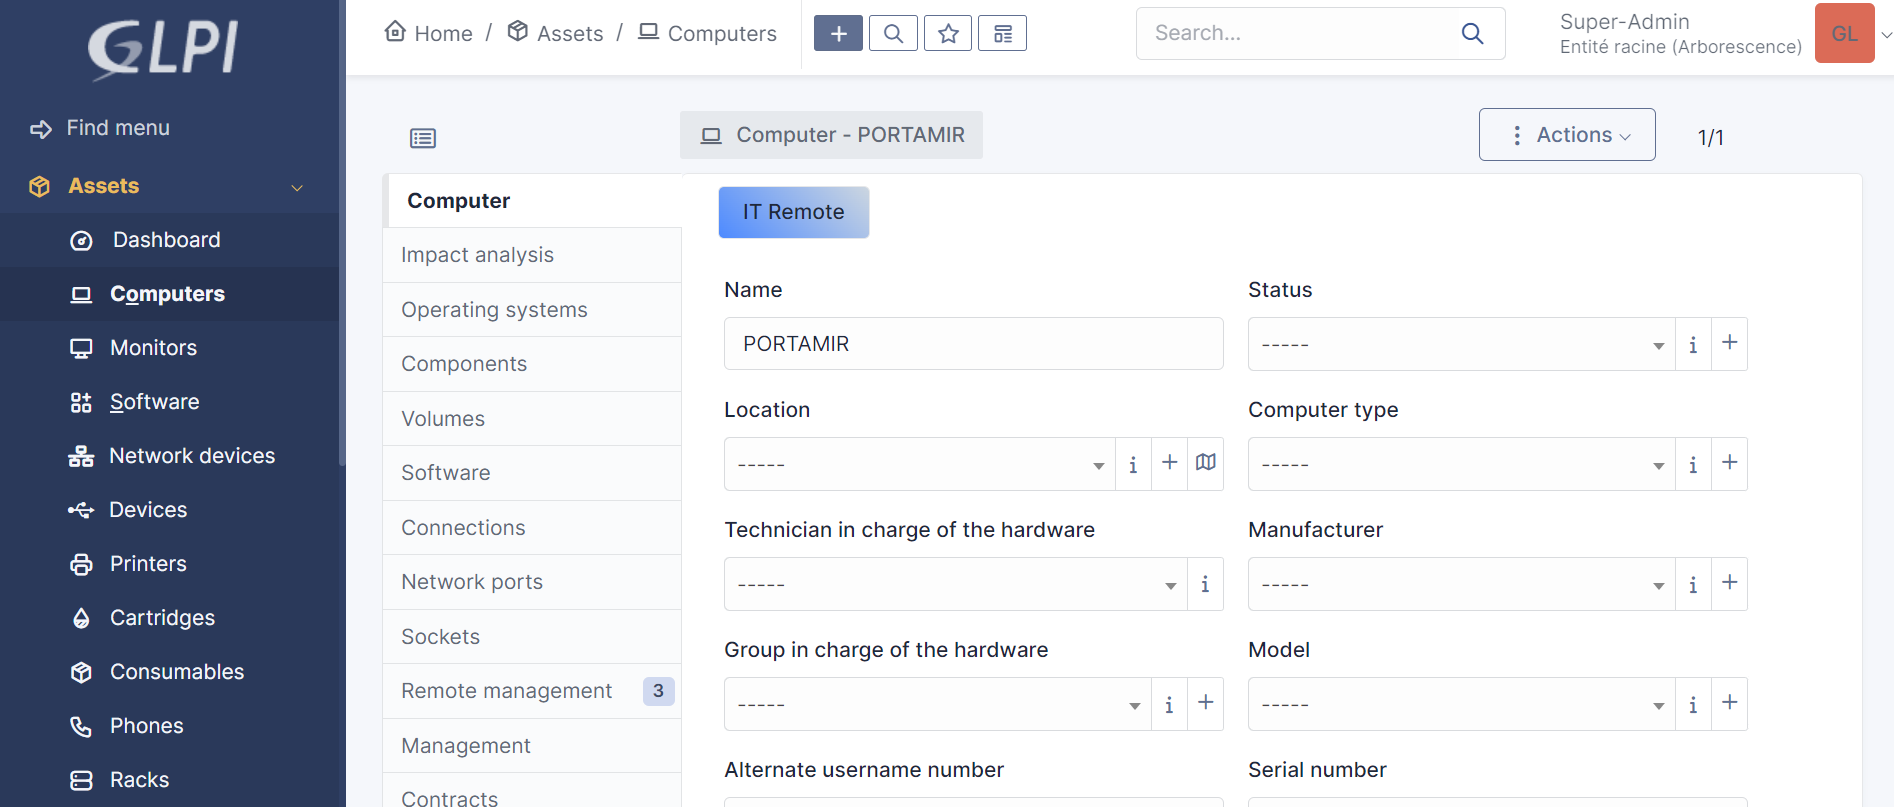
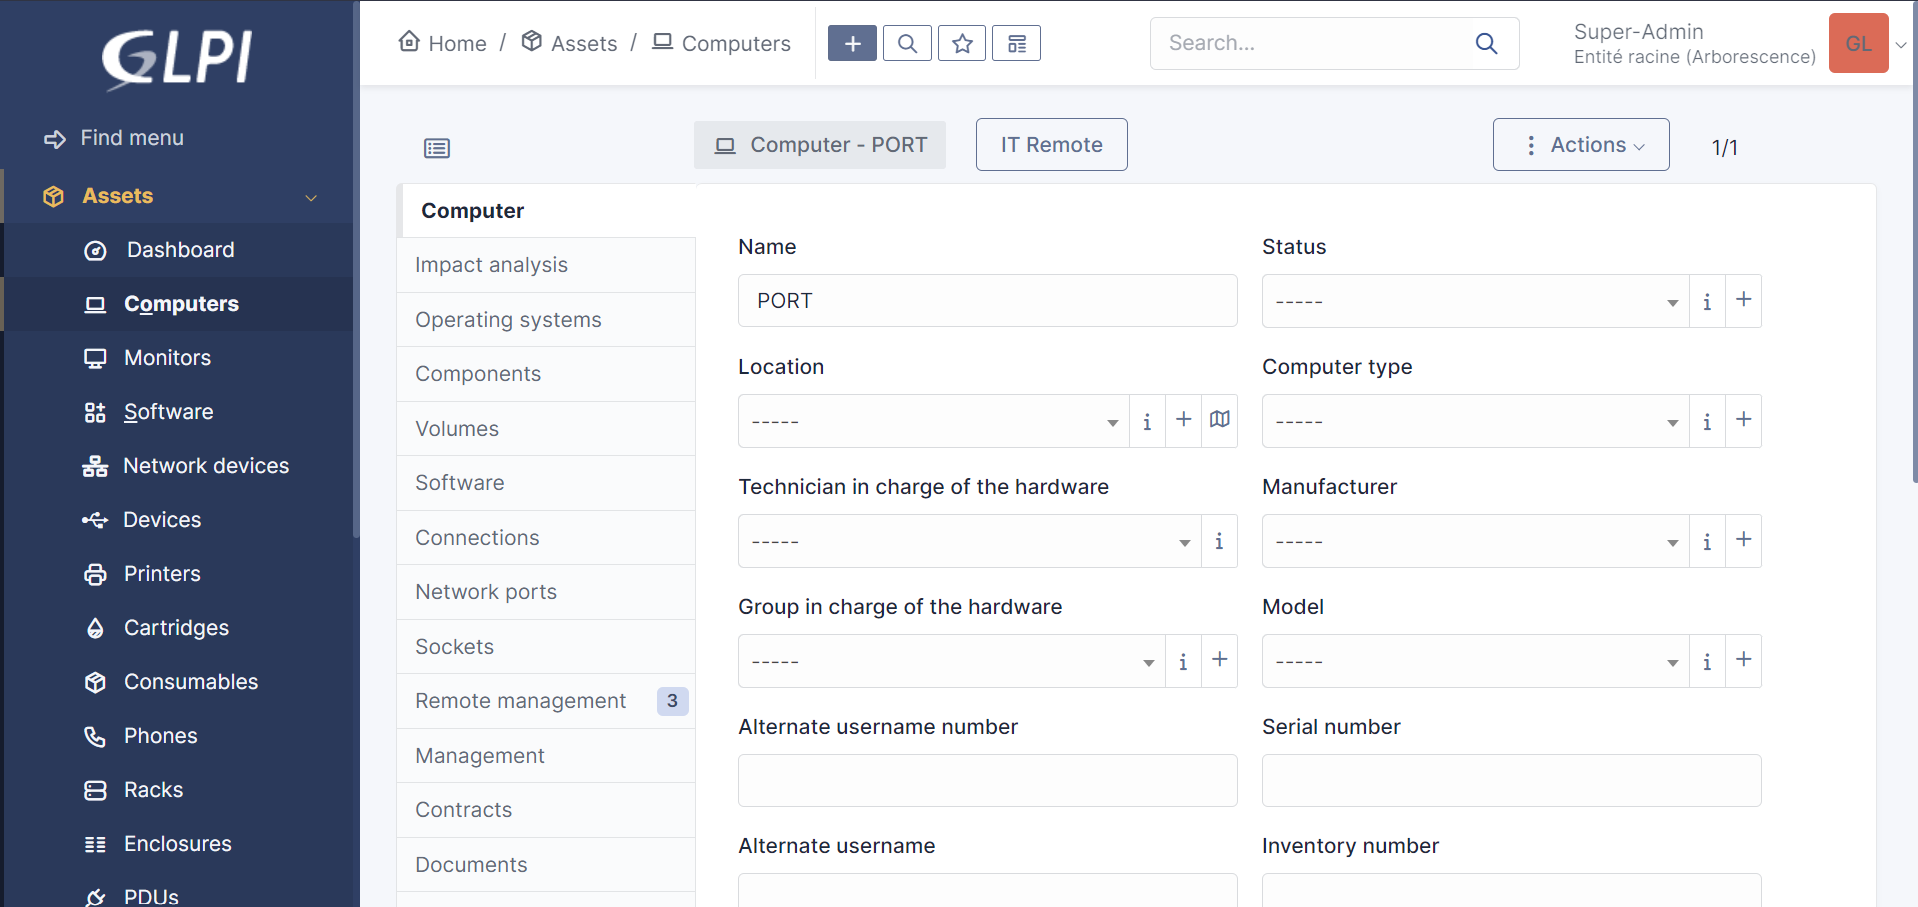
Correction 2.0

diff --git a/js/itremote.js b/js/itremote.js
@@ -1,0 +1,29 @@
+$(document).ready(function() {
+    var $header = $('span.status.rounded-1');
+    var $button;
+
+    function updateButton() {
+        var fullText = $header.text().trim();
+
+        var splitText = fullText.split('-');        
+        var computerName = splitText.length > 1 ? splitText[1].trim() : '';
+
+        var encode = encodeURIComponent(computerName);
+        var buttonHtml = '<a class="btn btn-outline-secondary" style="margin-left: 20px;" href="https://control.itremote.com/Remote/OpenAccess?deviceName=' + encode + '" target="_blank" class="btn btn-primary">IT Remote</a>';
+
+        if ($button) {
+            $button.remove();
+        }
+
+        $button = $(buttonHtml);
+        $('span.status.rounded-1').after($button);
+    }
+
+    var checkTextInterval = setInterval(function() {
+        if ($header.text().trim() !== '') {
+            clearInterval(checkTextInterval);
+            updateButton();
+            $header.on('DOMSubtreeModified', updateButton);
+        }
+    }, 1000);
+});

diff --git a/front/itremote.form.php b/front/itremote.form.php
@@ -1,0 +1,28 @@
+<!-- ============================================================================//
+//==             Plugin pour GLPI - Dévelloppeur: IT Remote - ©2023         ==//
+//==                        https://itremote.com                             ==//
+//============================================================================// -->
+
+<?php
+
+// Required
+include("../../../inc/includes.php");
+Html::class::header('');
+
+?>
+<body style='background: rgba(0, 0, 0, 0.025);'>
+    <h1 style='text-align: start;'>Plugin IT Remote</h1>
+    <p style='text-align: start; color: red'>Our plugin currently has no settings!</p>
+    <div style='text-align: start; font-weight: 300;'>Our website:</div>
+    <p style='text-align: start; font-weight: 500; margin-left: 10px;'><a href='https://control.itremote.com' style='color: #370c52;'>control.itremote.com</a></p>
+    <h3 style='text-align: start; color: #4d8aff'>Who are we ?</h3>
+    <p style='text-align: start; font-weight: 700; margin-left: 10px;'>From any computer, wherever you are, from your web browser!</p>
+    <h5 style='text-align: start; color: #4d8aff'>A SIMPLE AND FLEXIBLE LICENCE</h5>
+    <p style='text-align: start; font-weight: 300; margin-left: 10px;'>1 IT Remote licence gives you access to an unlimited number of computers, wherever you are. You can provide remote assistance from any computer.</p>
+    <h5 style='text-align: start; color: #4d8aff'>HOW TO USE IT</h5>
+    <p style='text-align: start; font-weight: 300; margin-left: 10px;'>1 all-in-one licence: 2 types of access for all your needs</p>
+    <h5 style='text-align: start; color: #4d8aff; margin-left: 10px;'>1 centralised web console</h5>
+    <h3 style='text-align: start; color: #4d8aff'>How does the plugin work?</h3>
+    <p style='text-align: start; font-weight: 300; margin-left: 10px;'>Our plugin consists of a single button, it is in the computer category.</p>
+    <div style='text-align: start;'><img style='border-radius: 15px;' src='../img-itremote-english-button.png'></div>
+</body>

diff --git a/setup.php b/setup.php
@@ -1,23 +1,20 @@
 <!-- ============================================================================//
 //==             Plugin pour GLPI - Dévelloppeur: IT Remote - ©2023         ==//
-//==                        http://itremote.com                             ==//
+//==                        https://itremote.com                             ==//
 //============================================================================// -->
 
 <?php
 
-// Main plugin
+// Required
 function plugin_init_itremote()
 {
     global $PLUGIN_HOOKS;
     $PLUGIN_HOOKS['csrf_compliant']['itremote'] = true;
-
-    $PLUGIN_HOOKS['config_page']['itremote'] = 'front/config.form.php';
-
-    $PLUGIN_HOOKS['pre_item_form']['itremote'] = ['PluginItremoteController', 'button_support'];
-
+    $PLUGIN_HOOKS['config_page']['itremote'] = 'front/itremote.form.php';
+    $PLUGIN_HOOKS['add_javascript']['itremote'] = 'js/itremote.js';
 }
 
-// Obligatoire
+// Required
 function plugin_version_itremote()
 {
     return array(
@@ -30,16 +27,15 @@ function plugin_version_itremote()
     );
 }
 
-// Obligatoire
+// Required
 function plugin_itremote_check_prerequisites()
 {
     return true;
 }
 
-// Obligatoire
+// Required
 function plugin_itremote_check_config($verbose = false)
 {
     return true;
 }
-
 ?>

diff --git a/hook.php b/hook.php
@@ -1,23 +1,21 @@
 <!-- ============================================================================//
 //==             Plugin pour GLPI - Dévelloppeur: IT Remote - ©2023         ==//
-//==                        http://itremote.com                             ==//
+//==                        https://itremote.com                             ==//
 //============================================================================// -->
 
 <?php
 
-// Obligatoire
+// Required
 function plugin_itremote_install()
 {
     global $DB;
-
     return true;
 }
 
-// Obligatoire
+// Required
 function plugin_itremote_uninstall()
 {
     global $DB;
-
     return true;
 }
 
